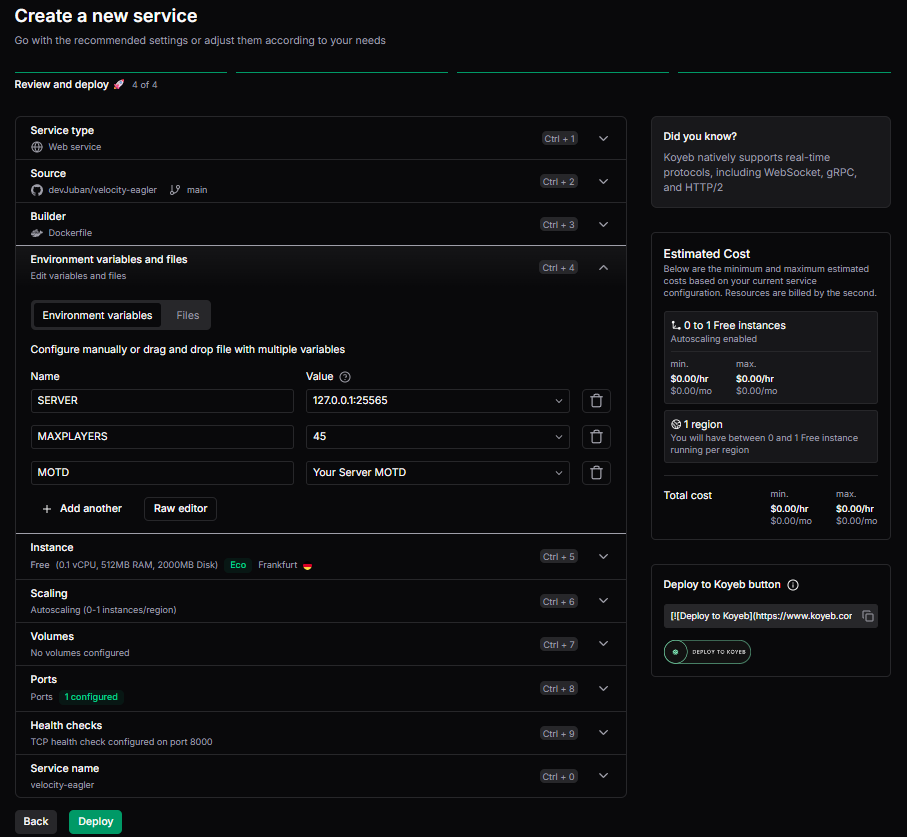
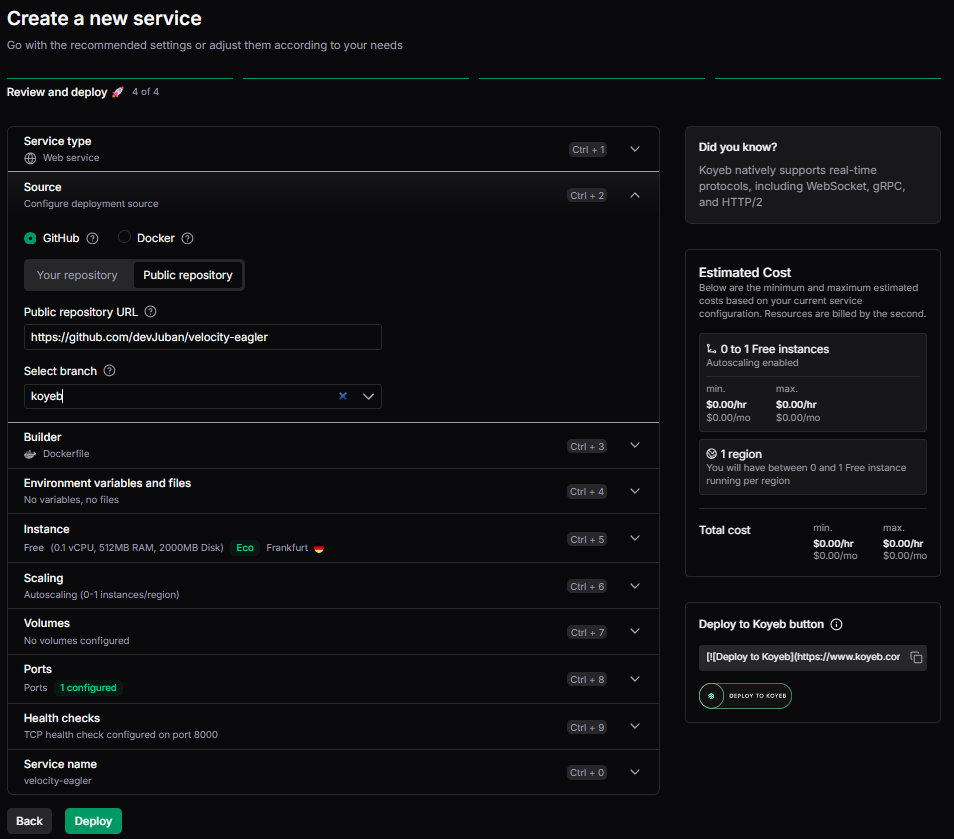
Update README.md

diff --git a/README.md b/README.md
@@ -5,18 +5,26 @@
 <p> Step 2: Click Public Git Repository and connect this repository.</p>
 <img src="./imgs/render/step2.png">
 <p> Step 2.5: Set the name to be your server ip (eg. name: myserverip, ip: myserverip.onrender.com).</p>
-<p> Step 3: Set the branch to "render".</p>
+<p> Step 3: Set the branch to "render" and make sure Language is set to Docker.</p>
 <img src="./imgs/render/step3.png">
 <p> Step 4: Click for a free Instance Type.</p>
 <img src="./imgs/render/step4.png">
 <p> Step 5: Create 3 Environment Variables (check images for names).</p>
 <img src="./imgs/render/step5.png">
 
-<h1> For Koyeb: </h1>#
+<h1> For Koyeb: </h1>
 
+<p>Step 1: Click Web Service and make sure Github is selected.</p>
 <img src="./imgs/koyeb/step1.png">
+<p>Step 2: Connect this repository.</p>
 <img src="./imgs/koyeb/step2.png">
+<p>Step 2: Click Dockerfile.</p>
 <img src="./imgs/koyeb/step3.png">
+<p>Step 2: Go to CPU Eco and select Free.</p>
 <img src="./imgs/koyeb/step4.png">
+<p>Step 2: Click Source and change the branch to koyeb.</p>
 <img src="./imgs/koyeb/step5.png">
+<p> Step 5: Click Environment Variables and create 3 Environment Variables (check images for names).</p>
 <img src="./imgs/koyeb/step6.png">
+<p> Step 5: Click on Ports and set the port to be 14457 and tick Proxy TCP access(this will be your java ip).</p>
+<img src="./imgs/koyeb/step7.png">
